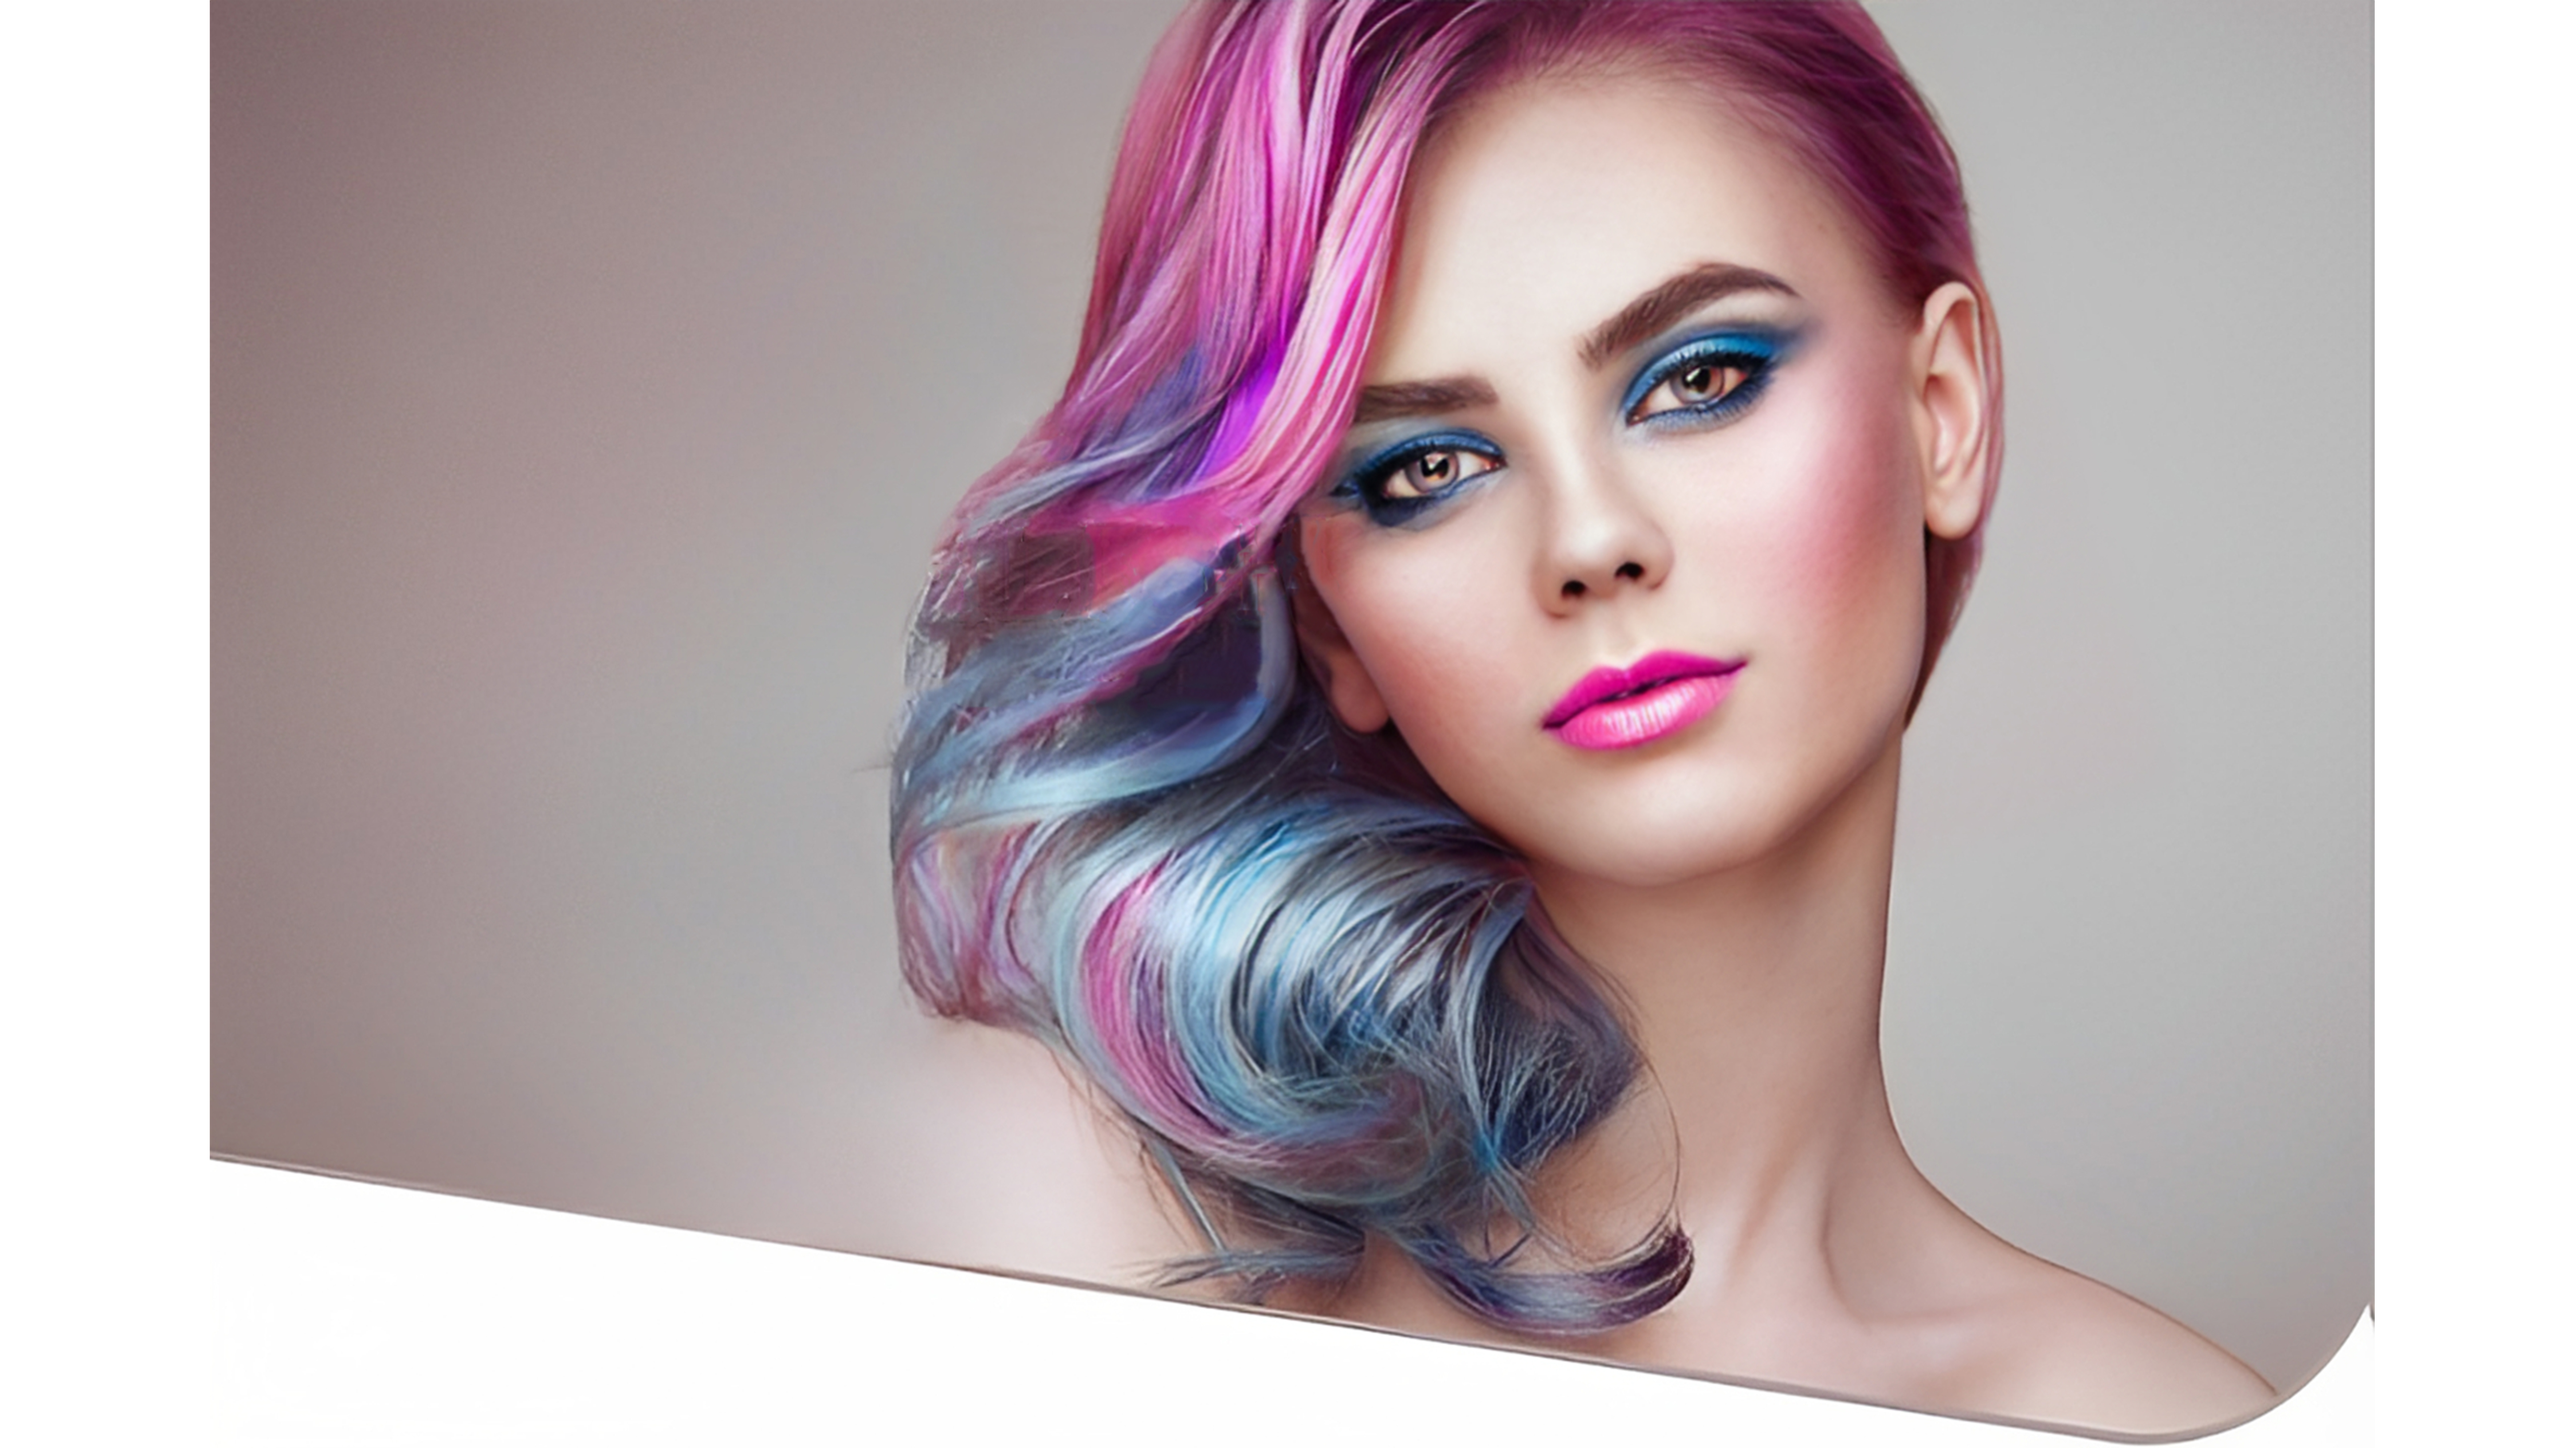
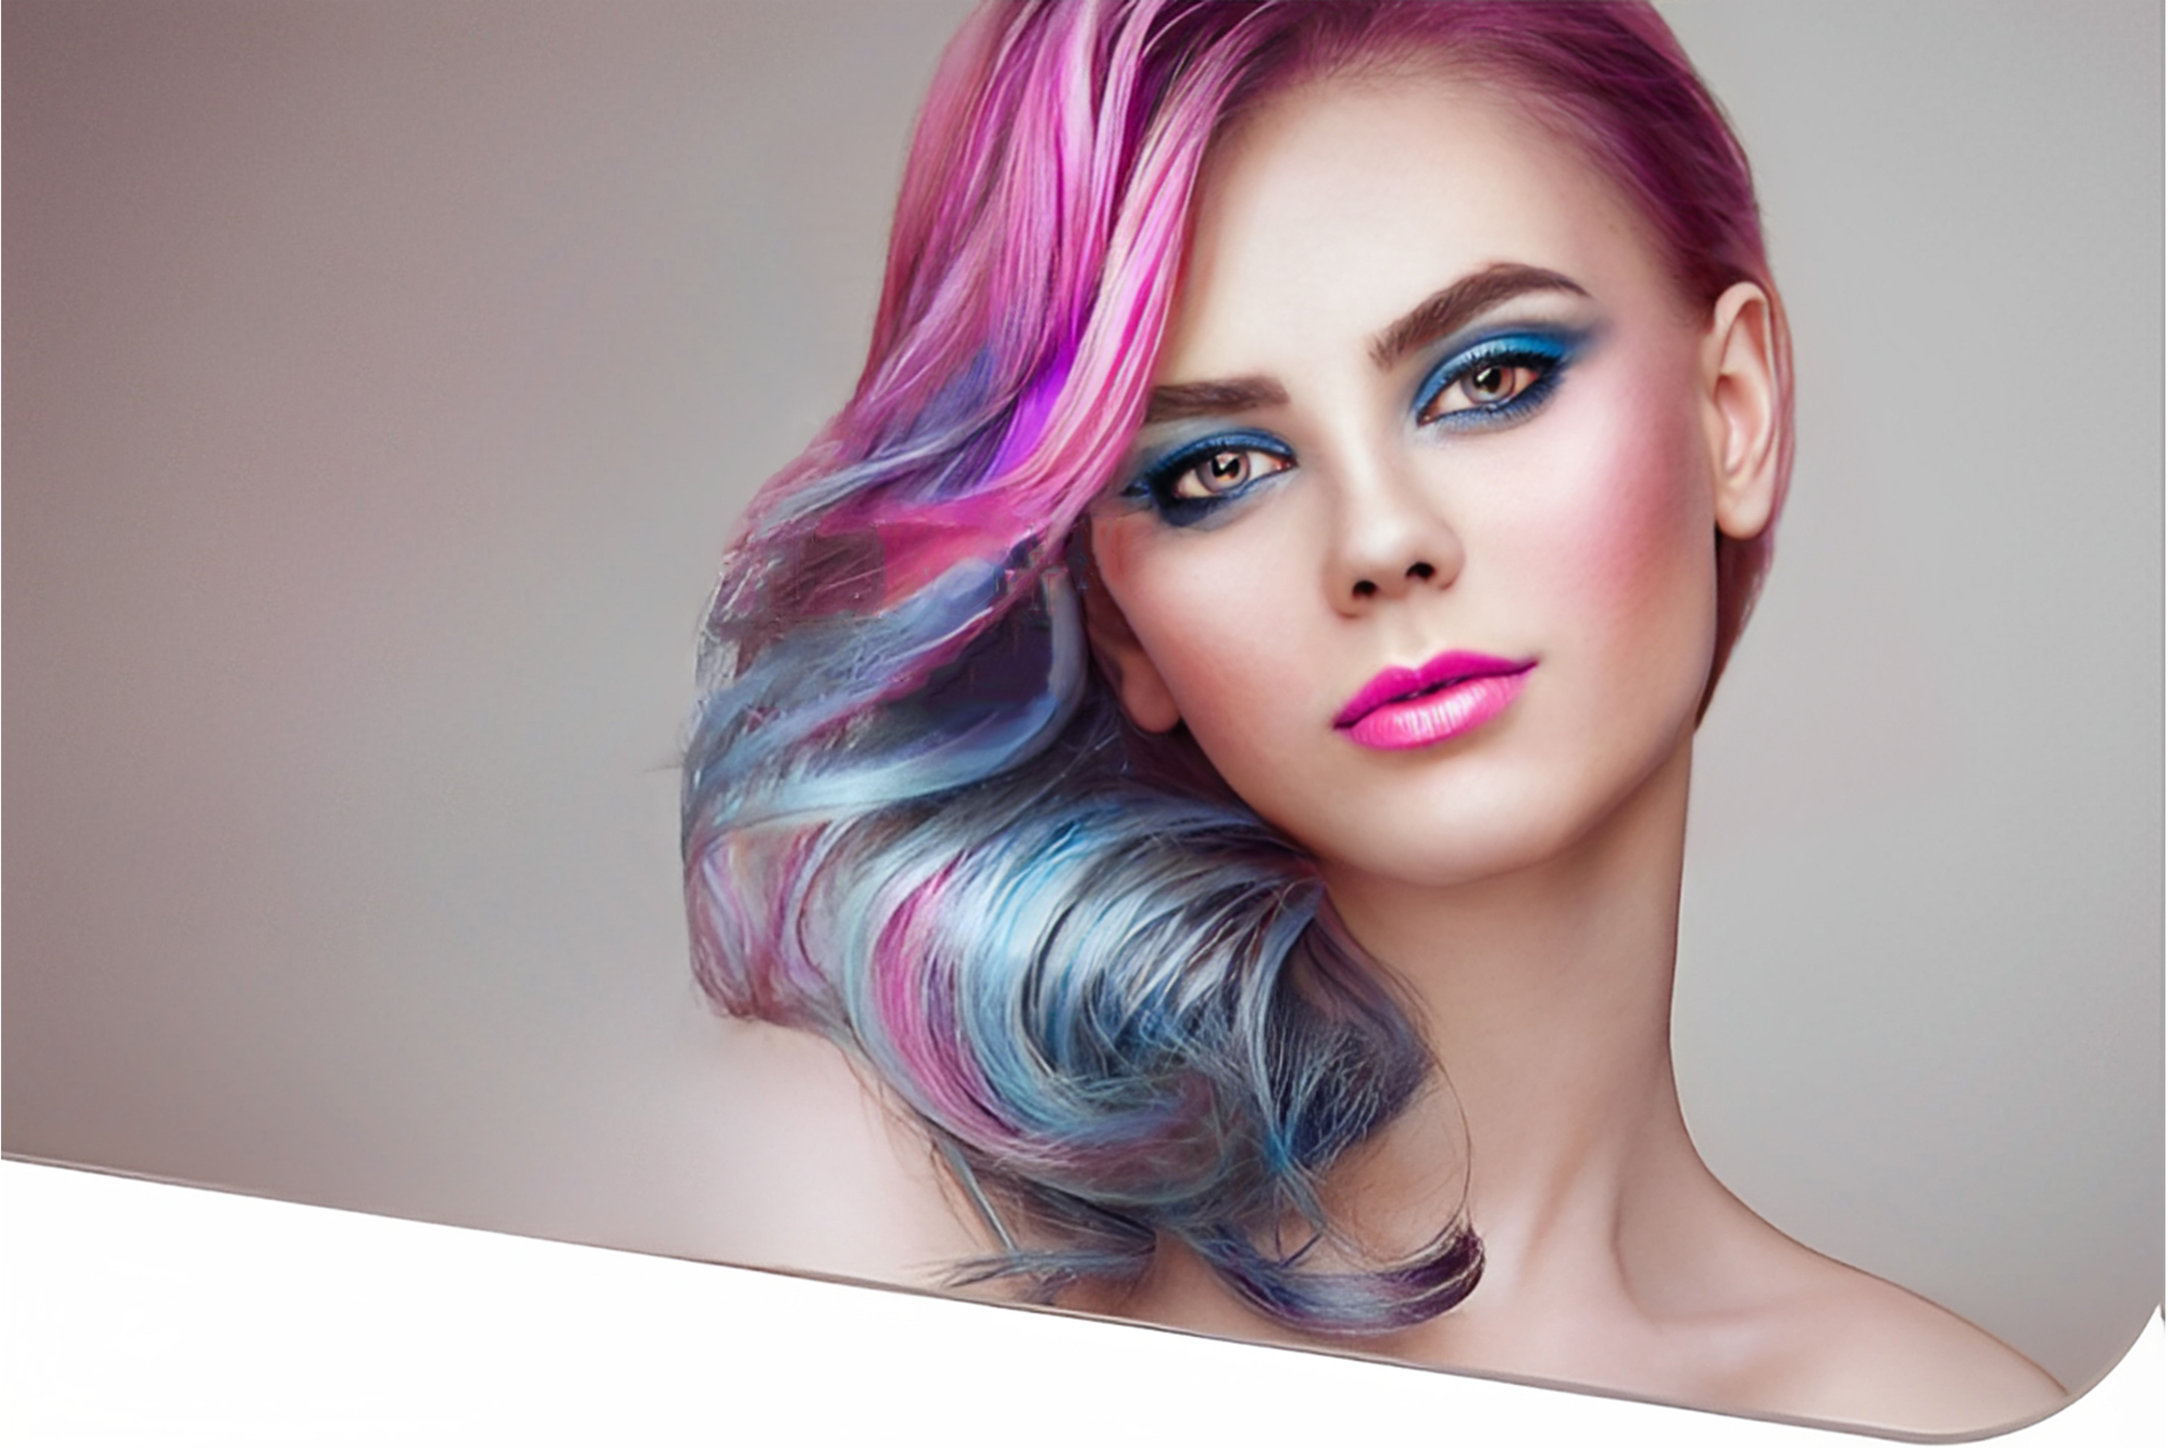
made changes but will make a lot more to look good

diff --git a/layout5/css/style.css b/layout5/css/style.css
@@ -65,6 +65,15 @@ nav > a {
   padding-top: 0.6%;
   text-align: left;
 }
+
+/* HERO SECTION STYLING */
+.hero {
+  clear: both;
+  background: url(../images/improved.jpg);
+  background-size: 100% 100%;
+  background-repeat: no-repeat;
+  height: 100vh;
+}
 footer {
 }
 
